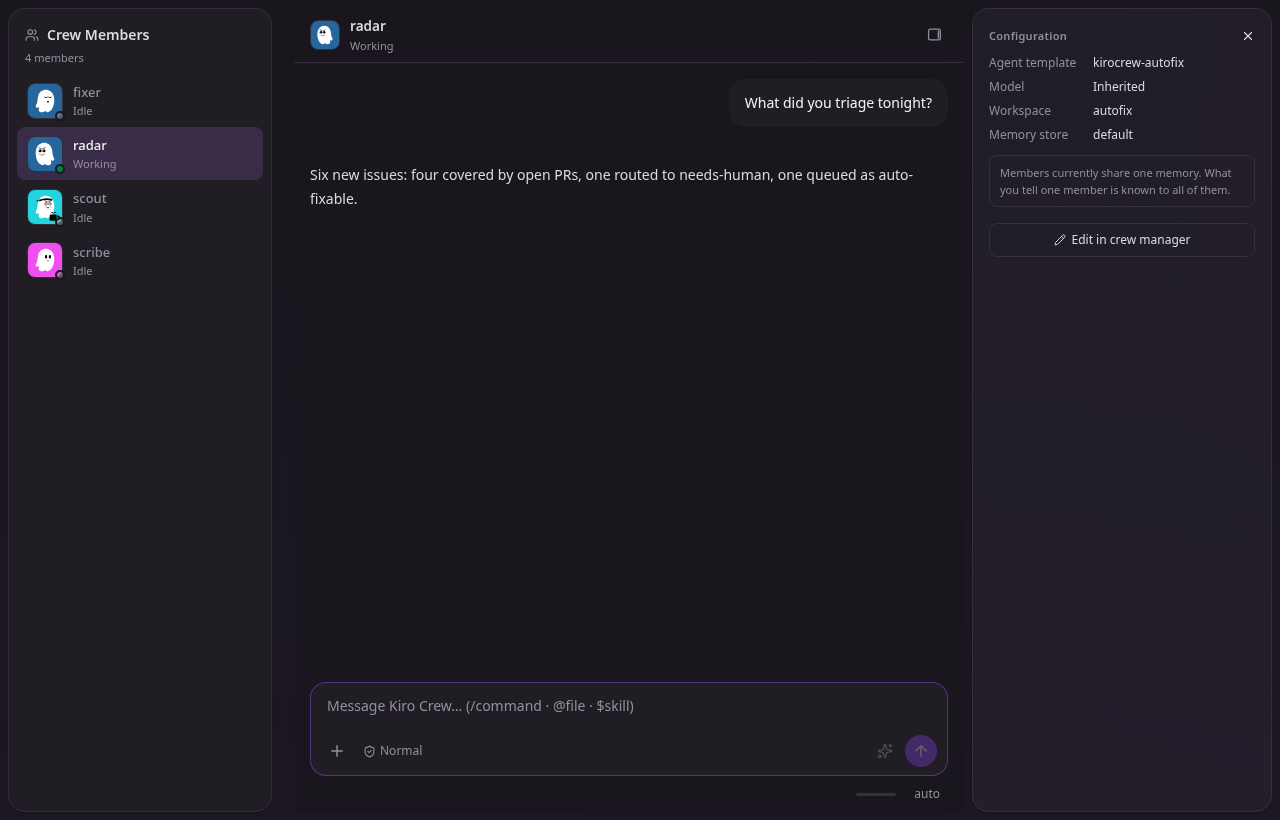
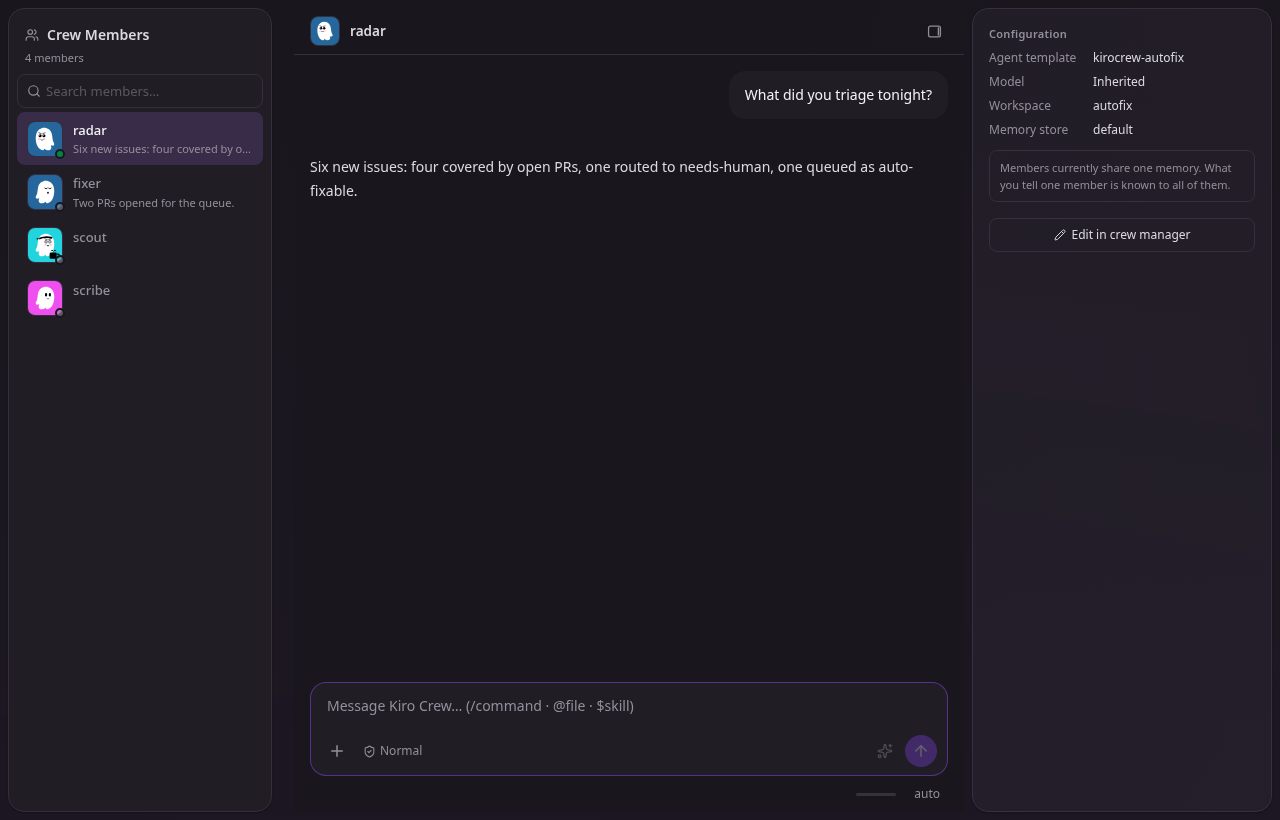
fix(members): roster rows read like session rows, plus search (#6685)
Follow-up PM round on the Crew Members page (the prior batch landed
in #6616):

- Roster rows drop the Idle/Working label for the thread's
  last-message preview — the same sub-line a session row carries.
  Presence already rides the avatar dot, so the textual label said
  nothing the dot did not. The preview reuses the sessions list's
  last_message_preview + redaction path, so a member row can never
  leak what a session row would not.
- A SearchInput (the sessions sidebar idiom) filters the roster by
  name; new search_members key across 12 locales, en-XA regenerated.
- The thread header drops its status sub-line (name only, like the
  chat page header), and the drawer's local close button survives
  only below md — on desktop the header's panel toggle is the one
  close gesture, matching the chat page's side panel.

Backend: the roster response gains last_message, read in the same
one-thread-hop batch as last_active_ts.

Tests: backend pins last_message ('' when no transcript); frontend
pins the preview sub-line, the absence of status labels, and the
name filter. Capture assertions updated and all frames re-verified.

diff --git a/website/src/pages/members/MembersPage.tsx b/website/src/pages/members/MembersPage.tsx
@@ -29,6 +29,7 @@ import { useAppSelector } from '../../store'
 import CrewAvatar from '../../components/CrewAvatar'
 import ChatPane from '../../components/ChatPane'
 import ErrorBoundary from '../../components/ErrorBoundary'
+import { SearchInput } from '../../components/ui'
 import ResizeHandle from '../../components/ResizeHandle'
 import { useColumnResize } from '../../hooks/useColumnResize'
 import { loadColumnWidth } from '../../lib/columnWidth'
@@ -119,14 +120,15 @@ export default function MembersPage() {
   // Most-recently-active first (like any IM member list); never-talked
   // members fall to the bottom alphabetically. Sorted once from the roster
   // snapshot — live re-sorting mid-session would move rows under the cursor.
-  const sortedMembers = useMemo(
-    () =>
-      [...members].sort(
-        (a, b) =>
-          (b.last_active_ts ?? 0) - (a.last_active_ts ?? 0) || compareText(a.name, b.name),
-      ),
-    [members],
-  )
+  const [filter, setFilter] = useState('')
+  const sortedMembers = useMemo(() => {
+    const ordered = [...members].sort(
+      (a, b) =>
+        (b.last_active_ts ?? 0) - (a.last_active_ts ?? 0) || compareText(a.name, b.name),
+    )
+    const q = filter.trim().toLowerCase()
+    return q ? ordered.filter((m) => m.name.toLowerCase().includes(q)) : ordered
+  }, [members, filter])
   const activeSlot = active ? slots[active.name] ?? '' : ''
   const activeError = active ? errors[active.name] ?? '' : ''
 
@@ -200,6 +202,16 @@ export default function MembersPage() {
         <div className="px-4 pb-2 text-[11px] text-muted">
           {t('pages.membersPage.member_count', { count: members.length })}
         </div>
+        {/* Same search idiom as the Sessions sidebar. */}
+        <div className="px-2 pb-1">
+          <SearchInput
+            className="w-full"
+            placeholder={t('pages.membersPage.search_members')}
+            value={filter}
+            onChange={(e) => setFilter(e.target.value)}
+            data-testid="member-search"
+          />
+        </div>
         <ul
           className="flex-1 overflow-y-auto scrollbar-none list-none m-0 px-2 pb-2"
           style={{ scrollbarWidth: 'none' }}
@@ -248,10 +260,11 @@ export default function MembersPage() {
                 </span>
                 <span className="min-w-0 flex-1">
                   <span className="block text-[13px] font-medium truncate">{m.name}</span>
+                  {/* Last-message preview, like a session row — presence
+                      already rides the avatar dot, so a textual Idle/Working
+                      label said nothing the dot did not. */}
                   <span className="block text-[11px] text-muted truncate">
-                    {isRunning(m)
-                      ? t('pages.membersPage.status_working')
-                      : t('pages.membersPage.status_idle')}
+                    {m.last_message || '\u00a0'}
                   </span>
                 </span>
               </button>
@@ -296,11 +309,6 @@ export default function MembersPage() {
               <CrewAvatar seed={active.name} size={30} />
               <div className="min-w-0 flex-1">
                 <div className="text-[13.5px] font-semibold truncate">{active.name}</div>
-                <div className="text-[11px] text-muted truncate">
-                  {isRunning(active)
-                    ? t('pages.membersPage.status_working')
-                    : t('pages.membersPage.status_idle')}
-                </div>
               </div>
               {/* One action in the header: toggle the detail drawer — same
                   icon and hit-target as the chat page's side-panel toggle, so
@@ -358,11 +366,13 @@ export default function MembersPage() {
             <div className="text-[11px] font-semibold tracking-wide text-muted flex-1">
               {t('pages.membersPage.configuration')}
             </div>
-            {/* Drawer-local close: below md the overlay covers the header's
-                Details toggle, so without this the drawer cannot be closed. */}
+            {/* Drawer-local close, MOBILE ONLY: below md the overlay covers
+                the header's toggle, so without this the drawer cannot be
+                closed there. On md+ the header toggle is the one close
+                gesture, same as the chat page's side panel. */}
             <button
               onClick={() => setDrawerOpen(false)}
-              className="inline-flex items-center p-1 -mr-1 rounded hover:bg-accent/40"
+              className="md:hidden inline-flex items-center p-1 -mr-1 rounded hover:bg-accent/40"
               aria-label={t('app.close')}
               data-testid="member-drawer-close"
             >

diff --git a/website/src/pages/members/MembersPage.test.tsx b/website/src/pages/members/MembersPage.test.tsx
@@ -226,4 +226,31 @@ describe('MembersPage drawer and edit jump', () => {
       navigateSpy.mockClear()
     }
   })
+
+  it('roster rows show the last message preview, not an Idle/Working label', async () => {
+    await renderPage([
+      row({ last_message: 'Six new issues triaged.' }),
+      row({ name: 'quiet', slug: 'quiet' }),
+    ])
+    await screen.findByText('oncall')
+    // The preview is the row's sub-line, like a session row. Presence rides
+    // the avatar dot, so a textual status label must not come back.
+    expect(screen.getByText('Six new issues triaged.')).toBeTruthy()
+    expect(screen.queryByText(/^(idle|working)$/i)).toBeNull()
+  })
+
+  it('the search box filters the roster by name', async () => {
+    await renderPage([
+      row({ name: 'radar', slug: 'radar' }),
+      row({ name: 'scribe', slug: 'scribe' }),
+    ])
+    await screen.findByText('radar')
+    // SearchInput spreads props onto its inner <input>, so the testid IS the input.
+    const box = screen.getByTestId('member-search') as HTMLInputElement
+    fireEvent.change(box, { target: { value: 'scr' } })
+    expect(screen.queryByText('radar')).toBeNull()
+    expect(screen.getByText('scribe')).toBeTruthy()
+    fireEvent.change(box, { target: { value: '' } })
+    expect(screen.getByText('radar')).toBeTruthy()
+  })
 })

diff --git a/website/src/api/client.ts b/website/src/api/client.ts
@@ -2001,6 +2001,7 @@ export interface MemberRosterRow {
   running: boolean
   /** Epoch seconds of the DM transcript's last write; 0 = never talked. */
   last_active_ts?: number
+  last_message?: string
   kiro_agent?: string
   workspace?: string
   memory_store?: string

diff --git a/src/kiro_crew/dashboard/handlers/members.py b/src/kiro_crew/dashboard/handlers/members.py
@@ -23,6 +23,7 @@ import logging
 
 from aiohttp import web
 
+import kiro_crew.dashboard.handlers as _h
 from kiro_crew import members as members_mod
 from kiro_crew.config.loader import KiroCrewConfig
 from kiro_crew.dashboard.chat_persistence import rehydrate_slot_from_history_async
@@ -142,21 +143,35 @@ async def api_members(request: web.Request) -> web.Response:
     # transcript's mtime is the one durable signal that survives restarts and
     # covers live and dormant threads alike. File stats are IO — one thread
     # hop for the whole roster, mirroring the binding reads above.
-    def _read_last_active() -> dict[str, float]:
+    def _read_transcript_tails() -> dict[str, tuple[float, str]]:
         if state is None or state.conversation_log is None:
             return {}
-        out: dict[str, float] = {}
+
+        def _sanitize(text: str) -> str:
+            # Same redaction chain the sessions list uses, injected so it
+            # runs BEFORE the preview's length cap — a credential split by
+            # truncation leaves a partial token the patterns cannot match.
+            text, _ = _h.redact_exfiltration_urls(text)
+            text, _ = _h.redact_credentials(text)
+            return text
+
+        out: dict[str, tuple[float, str]] = {}
         for row in rows:
             if not row["slot_key"]:
                 continue
-            mt = state.conversation_log.session_mtime(f"dashboard:{row['slot_key']}")
-            if mt:
-                out[row["slot_key"]] = mt
+            log_key = f"dashboard:{row['slot_key']}"
+            mt = state.conversation_log.session_mtime(log_key)
+            if not mt:
+                continue
+            preview = state.conversation_log.last_message_preview(log_key, sanitize=_sanitize)
+            out[row["slot_key"]] = (mt, preview)
         return out
 
-    last_active = await asyncio.to_thread(_read_last_active)
+    tails = await asyncio.to_thread(_read_transcript_tails)
     for row in rows:
-        row["last_active_ts"] = last_active.get(row["slot_key"], 0.0)
+        mt, preview = tails.get(row["slot_key"], (0.0, ""))
+        row["last_active_ts"] = mt
+        row["last_message"] = preview
 
     return web.json_response({"members": rows})
 

diff --git a/test/test_members_dm_thread.py b/test/test_members_dm_thread.py
@@ -196,8 +196,35 @@ class TestMemberRoutes:
                 data = await resp.json()
         rows = {r["name"]: r for r in data["members"]}
         assert rows[CREW]["last_active_ts"] > 0
+        # The row also carries the transcript's last-message preview — the
+        # roster sub-line, same data a session row shows.
+        assert rows[CREW]["last_message"] == "hello"
         # A member with no transcript stays at 0 — sorted last, never an error.
         assert rows["Docs_Writer"]["last_active_ts"] == 0.0
+        assert rows["Docs_Writer"]["last_message"] == ""
+
+    @pytest.mark.asyncio
+    async def test_roster_preview_redacts_before_truncation(self, tmp_path):
+        """A credential straddling the preview's length cap never leaks.
+
+        Redaction runs on the FULL text before the 120-char cap: truncating
+        first splits the token, and the pattern-based redactors cannot match
+        a partial credential — its raw prefix would reach /api/members.
+        """
+        state = _make_state(tmp_path)
+        write_dm_binding(CREW, member=CREW, slot_key=member_slot_key(CREW))
+        key = f"dashboard:{member_slot_key(CREW)}"
+        # Padding places the AKIA token across the 120-char boundary.
+        secret = "AKIAIOSFODNN7EXAMPLE"
+        state.conversation_log.append(key, "assistant", "x" * 110 + " " + secret)
+        with _patched_config([CREW]):
+            async with TestClient(TestServer(_make_members_app(state))) as client:
+                resp = await client.get("/api/members")
+                assert resp.status == 200
+                data = await resp.json()
+        preview = {r["name"]: r for r in data["members"]}[CREW]["last_message"]
+        # Neither the full token nor any partial prefix of it survives.
+        assert "AKIA" not in preview
 
     @pytest.mark.asyncio
     async def test_thread_create_then_roster_reports_bound(self, tmp_path):

diff --git a/src/kiro_crew/history.py b/src/kiro_crew/history.py
@@ -5295,7 +5295,7 @@ class ConversationLog:
     #: Max characters returned in a last-message preview.
     _PREVIEW_MAX_CHARS = 120
 
-    def last_message_preview(self, key: str) -> str:
+    def last_message_preview(self, key: str, sanitize=None) -> str:
         """Return a short preview of the session's last message ('' if none).
 
         Reads only the tail of the JSONL file (bounded), scanning backwards
@@ -5305,6 +5305,14 @@ class ConversationLog:
         If the initial tail window yields nothing parseable (a single trailing
         line larger than the window), retries once with a 16× window before
         giving up.
+
+        ``sanitize`` (a ``str -> str`` callable) runs on the FULL extracted
+        text BEFORE the length cap. Order is load-bearing: a credential that
+        straddles the truncation boundary leaves a partial token the caller's
+        pattern-based redactors can no longer match, so redaction after
+        truncation lets a raw credential prefix through. Callers inject the
+        redaction chain here (a callable, so this module never imports the
+        security layer).
         """
         path = self._path(key)
         try:
@@ -5336,6 +5344,9 @@ class ConversationLog:
                 preview = strip_markdown_preview(text)
                 if not preview:
                     continue
+                if sanitize is not None:
+                    # Full text first, cap second — see the docstring.
+                    preview = sanitize(preview)
                 if len(preview) > self._PREVIEW_MAX_CHARS:
                     preview = preview[: self._PREVIEW_MAX_CHARS].rstrip() + "…"
                 return preview

diff --git a/src/kiro_crew/dashboard/handlers/sessions.py b/src/kiro_crew/dashboard/handlers/sessions.py
@@ -1054,11 +1054,17 @@ async def api_sessions(request: web.Request) -> web.Response:
         log = state.conversation_log
 
         def _attach_previews(sessions: list[dict]) -> None:
+            def _sanitize(text: str) -> str:
+                # Injected so redaction runs BEFORE the preview's length cap:
+                # a credential split by truncation leaves a partial token the
+                # patterns cannot match, letting its raw prefix through.
+                text, _ = _h.redact_exfiltration_urls(text)
+                text, _ = _h.redact_credentials(text)
+                return text
+
             for s in sessions:
-                preview = log.last_message_preview(s.get("key", ""))
+                preview = log.last_message_preview(s.get("key", ""), sanitize=_sanitize)
                 if preview:
-                    preview, _ = _h.redact_exfiltration_urls(preview)
-                    preview, _ = _h.redact_credentials(preview)
                     s["preview"] = preview
 
         # Tail reads are sync file IO — keep them off the event loop.

diff --git a/src/kiro_crew/security_posture.py b/src/kiro_crew/security_posture.py
@@ -1335,6 +1335,10 @@ NON_EGRESS_REDACTION_MODULES: frozenset[str] = frozenset(
         "dashboard/ws.py",
         "dashboard/server.py",
         "dashboard/handlers/sessions.py",
+        # Roster last-message previews: same preview + redaction chain as
+        # handlers/sessions.py, feeding the same dashboard HTTP surface the
+        # registered sink already covers.
+        "dashboard/handlers/members.py",
         "dashboard/handlers/artifacts.py",
         "dashboard/handlers/core.py",
         "dashboard/handlers/cron.py",
